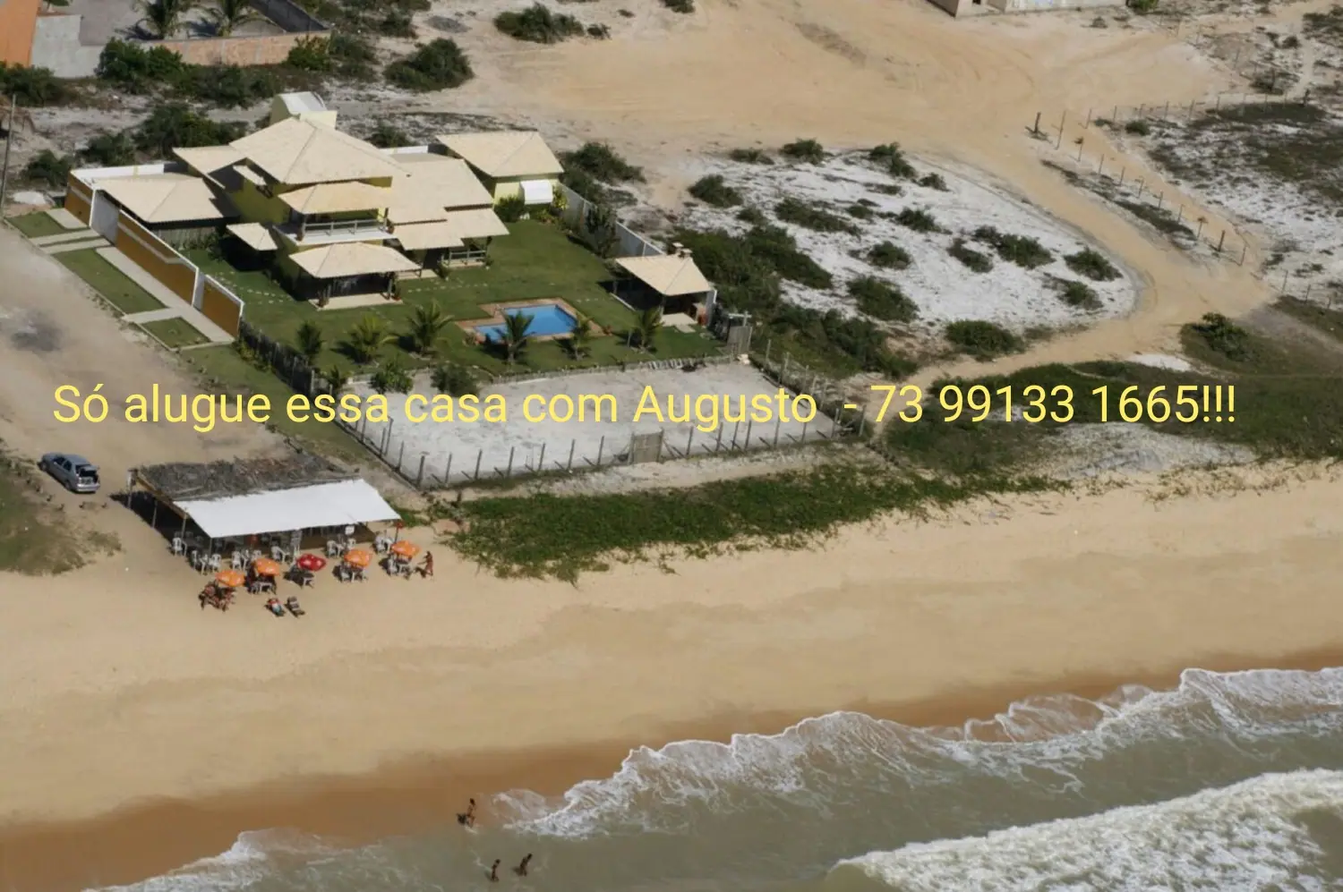
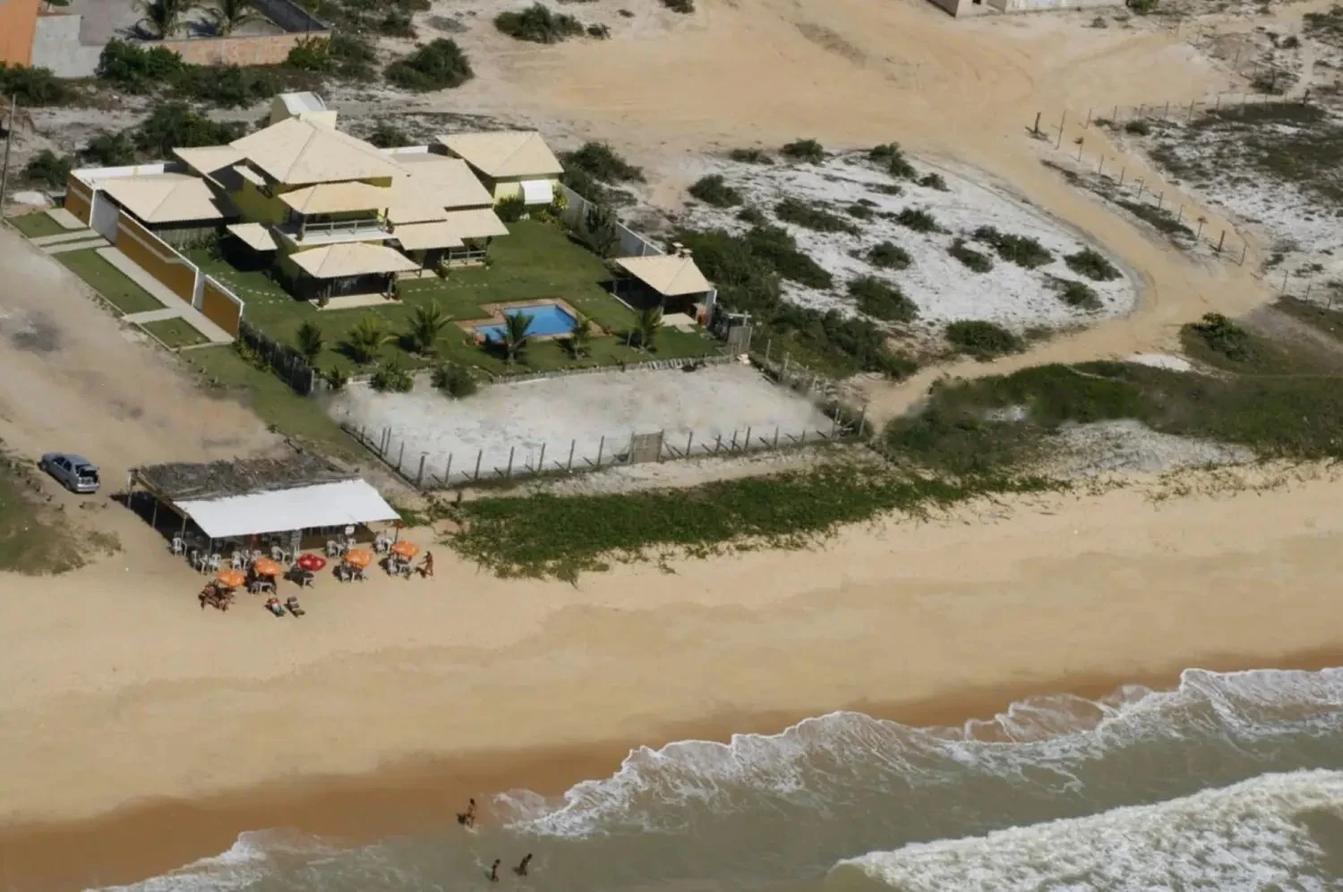
Casa Prado: capa em mosaico (opção escolhida pelo Augusto) e fotos de capa novas
Pé na areia em destaque com a foto aérea da praia, sem a legenda; 7, 5 e 4 quartos com fotos da piscina.

Claude-Session: https://claude.ai/code/session_019DD4Fyus8cYbBLTfuo8jed

Changed region(s): [[0.0307, 0.4042, 0.92, 0.4975]]

diff --git a/casa-prado/index.html b/casa-prado/index.html
@@ -70,7 +70,7 @@ h2.big em{font-family:'Newsreader',serif;font-style:italic;font-weight:300;lette
 #bar nav a:hover,#bar nav a.cur{opacity:1}
 #bar nav a.cur::after{content:"";position:absolute;left:0;right:0;bottom:0;height:2px;background:var(--sea)}
 #bar nav a.btn::after{display:none}
-#bar nav a.btn{padding:11px 22px}
+#bar nav a.btn{padding:11px 22px;opacity:1}
 .btn{display:inline-flex;align-items:center;justify-content:center;gap:9px;border-radius:999px;border:0;cursor:pointer;
   flex:none;white-space:nowrap;font-family:'Bricolage Grotesque',sans-serif;font-size:14.5px;font-weight:500;
   letter-spacing:-.01em;padding:11px 22px;text-decoration:none;
@@ -86,61 +86,52 @@ h2.big em{font-family:'Newsreader',serif;font-style:italic;font-weight:300;lette
 #burger.x i:nth-child(2){opacity:0}
 #burger.x i:nth-child(3){transform:translateY(-6.1px) rotate(-45deg)}
 
-#hero{position:relative;height:100svh;min-height:660px;max-height:1100px;overflow:hidden;background:var(--deeper);color:#f5f1e8;display:flex;flex-direction:column}
-#heroimg{position:absolute;left:0;top:-10%;width:100%;height:120%;z-index:0;
-  background:url("casas/band.webp") center 60%/cover no-repeat;opacity:.26;will-change:transform}
-#scrim{position:absolute;inset:0;z-index:1;
-  background:radial-gradient(120% 80% at 20% 0%,rgba(31,147,166,.22),rgba(7,30,36,0) 60%),
-             linear-gradient(rgba(7,30,36,.55),rgba(7,30,36,.86) 55%,var(--deeper))}
-.hero-in{position:relative;z-index:5;flex:1;display:flex;flex-direction:column;
-  padding:calc(78px + 2.4vh) clamp(14px,3.6vw,56px) clamp(14px,2.6vh,30px);gap:clamp(16px,2.8vh,30px)}
+#hero{position:relative;height:100svh;min-height:720px;max-height:1150px;overflow:hidden;background:var(--paper);color:var(--ink);display:flex;flex-direction:column}
+#heroimg{position:absolute;right:-18%;top:-30%;width:80%;height:110%;z-index:0;pointer-events:none;will-change:transform;
+  background:radial-gradient(closest-side,rgba(31,147,166,.17),rgba(31,147,166,0))}
+#scrim{display:none}
+.hero-in{position:relative;z-index:2;flex:1;display:flex;flex-direction:column;width:100%;max-width:1480px;margin:0 auto;
+  padding:calc(82px + 2.4vh) clamp(14px,3.6vw,56px) clamp(16px,3vh,34px);gap:clamp(16px,2.8vh,30px)}
 .hero-head{display:flex;justify-content:space-between;align-items:flex-end;gap:18px 40px;flex-wrap:wrap;will-change:transform}
-.lock-eyebrow{font-family:'Newsreader',serif;font-weight:500;color:#f0cd82;
-  font-size:clamp(11px,1.2vw,14px);letter-spacing:.3em;text-transform:uppercase;margin-bottom:12px;line-height:1.3}
-#hero h1{font-family:'Newsreader',serif;font-weight:400;font-size:clamp(36px,4.5vw,68px);line-height:1;
-  letter-spacing:-.025em}
-#hero h1 .n{font-family:'Bricolage Grotesque',sans-serif;font-weight:800;letter-spacing:-.055em;color:#f0cd82}
-#hero h1 em{font-style:italic;font-weight:300}
-.hero-say{font-family:'Newsreader',serif;font-style:italic;font-weight:300;font-size:clamp(16px,1.6vw,20px);
-  opacity:.88;margin-top:12px;max-width:40ch;line-height:1.5}
-.hero-side{display:flex;gap:clamp(18px,3vw,40px);padding-bottom:6px}
-.hero-side div{display:flex;flex-direction:column;gap:3px;border-left:2px solid rgba(240,205,130,.55);padding-left:12px}
-.hero-side b{font-family:'Bricolage Grotesque',sans-serif;font-size:clamp(17px,1.8vw,23px);font-weight:700;letter-spacing:-.035em;line-height:1}
-.hero-side span{font-family:'Newsreader',serif;font-style:italic;font-size:14px;opacity:.72}
+.lock-eyebrow{font-family:'Newsreader',serif;font-style:italic;font-size:17px;color:var(--sea-d);margin-bottom:8px}
+#hero h1{font-family:'Bricolage Grotesque',sans-serif;font-weight:800;font-size:clamp(40px,4.7vw,74px);line-height:.95;letter-spacing:-.055em}
+#hero h1 em{display:inline;font-family:'Newsreader',serif;font-style:italic;font-weight:400;letter-spacing:-.025em;color:var(--sea-d)}
+.hero-say{font-family:'Newsreader',serif;font-style:italic;font-weight:300;font-size:clamp(16px,1.5vw,19px);color:var(--ink-2);margin-top:14px;max-width:42ch;line-height:1.5}
+.hero-side{display:flex;align-items:flex-end;gap:clamp(18px,2.6vw,36px);padding-bottom:6px}
+.hero-side .st{display:flex;flex-direction:column;gap:3px;border-left:2px solid var(--sea);padding-left:12px}
+.hero-side b{font-family:'Bricolage Grotesque',sans-serif;font-size:clamp(17px,1.7vw,22px);font-weight:700;letter-spacing:-.035em;line-height:1}
+.hero-side span{font-family:'Newsreader',serif;font-style:italic;font-size:14px;color:var(--ink-2)}
+.hero-side .btn{padding:14px 24px}
+.hero-cta{display:none}
 
-.quad{flex:1;display:flex;gap:clamp(8px,.9vw,14px);min-height:0}
-.qc{position:relative;flex:1 1 0;min-width:0;border:0;padding:0;margin:0;border-radius:18px;overflow:hidden;cursor:pointer;
-  color:#f5f1e8;text-align:left;background:var(--deep);isolation:isolate;
-  box-shadow:0 28px 60px -36px rgba(0,0,0,.9);transition:flex-grow .65s cubic-bezier(.2,.8,.3,1)}
-.qimg{position:absolute;left:0;right:0;top:-9%;bottom:-9%;z-index:0;will-change:transform}
-.qimg img{width:100%;height:100%;object-fit:cover;transform:scale(1.04);transition:transform 1s cubic-bezier(.2,.8,.3,1)}
+.quad{flex:1;display:grid;grid-template-columns:1.2fr 1.2fr 1fr 1fr;grid-template-rows:1fr 1fr;gap:clamp(8px,.8vw,12px);
+  min-height:0}
+.qc{position:relative;min-width:0;min-height:0;border:0;padding:0;margin:0;border-radius:18px;overflow:hidden;cursor:pointer;
+  color:#f5f1e8;text-align:left;background:var(--deep);isolation:isolate;box-shadow:0 24px 50px -34px rgba(7,30,36,.75)}
+.qc.big{grid-column:1/3;grid-row:1/3}
+.qc.wide{grid-column:3/5;grid-row:1}
+.qimg{position:absolute;left:0;right:0;top:-8%;bottom:-8%;z-index:0;will-change:transform}
+.qimg img{width:100%;height:100%;object-fit:cover;transform:scale(1.03);transition:transform 1s cubic-bezier(.2,.8,.3,1)}
 .qc::after{content:"";position:absolute;inset:0;z-index:1;pointer-events:none;
-  background:linear-gradient(rgba(7,30,36,.45) 0%,rgba(7,30,36,0) 24%,rgba(7,30,36,0) 40%,rgba(7,30,36,.62) 64%,rgba(7,30,36,.94) 100%)}
-.qnum{position:absolute;top:14px;left:14px;z-index:3;font-family:'Bricolage Grotesque',sans-serif;font-size:11.5px;font-weight:500;
-  letter-spacing:.16em;text-transform:uppercase;padding:6px 11px;border-radius:999px;
-  background:rgba(7,30,36,.38);-webkit-backdrop-filter:blur(10px);backdrop-filter:blur(10px);border:1px solid rgba(255,255,255,.24)}
+  background:linear-gradient(rgba(7,30,36,.28) 0%,rgba(7,30,36,0) 22%,rgba(7,30,36,0) 48%,rgba(7,30,36,.55) 72%,rgba(7,30,36,.9) 100%)}
+.qbadge{position:absolute;top:14px;left:14px;z-index:3;font-family:'Bricolage Grotesque',sans-serif;font-weight:700;font-size:13px;
+  letter-spacing:-.01em;padding:6px 12px;border-radius:999px;background:var(--paper);color:var(--ink)}
+.big .qbadge{background:#e8b55e;font-size:15px;padding:7px 14px}
 .qarrow{position:absolute;top:12px;right:12px;z-index:3;width:36px;height:36px;border-radius:50%;
   display:flex;align-items:center;justify-content:center;background:rgba(245,241,232,.92);color:var(--deep);
   transition:transform .35s cubic-bezier(.2,.9,.3,1),background .25s}
-.qtxt{position:absolute;left:0;right:0;bottom:0;z-index:3;padding:clamp(14px,1.7vw,26px)}
-.qq{display:flex;align-items:baseline;gap:8px;font-family:'Bricolage Grotesque',sans-serif;font-weight:800;
-  font-size:clamp(58px,6.6vw,104px);line-height:.8;letter-spacing:-.065em;color:#f0cd82}
-.qq small{font-family:'Newsreader',serif;font-style:italic;font-weight:400;font-size:clamp(16px,1.5vw,21px);letter-spacing:0;color:#f5f1e8}
-.qn{display:block;font-family:'Bricolage Grotesque',sans-serif;font-weight:700;font-size:clamp(19px,1.75vw,26px);
-  letter-spacing:-.035em;line-height:1.08;margin-top:12px}
-.qb{display:block;font-family:'Newsreader',serif;font-style:italic;font-weight:300;font-size:15px;opacity:.86;margin-top:3px;line-height:1.35}
-.qchips{display:flex;flex-wrap:wrap;gap:5px;margin-top:12px;max-height:27px;overflow:hidden}
-@media(min-width:761px) and (max-width:1180px){.qchips{display:none}.qb{min-height:2.7em}}
-.qchips i{font-style:normal;font-family:'Bricolage Grotesque',sans-serif;font-size:12px;font-weight:500;
-  padding:4px 10px;border-radius:999px;border:1px solid rgba(245,241,232,.38);background:rgba(7,30,36,.25)}
-.qc:focus-visible{outline:3px solid #f0cd82;outline-offset:3px}
-@media (hover:hover) and (min-width:761px){
-  .quad:hover .qc{flex-grow:.82}
-  .quad .qc:hover{flex-grow:1.55}
-  .qc:hover .qimg img{transform:scale(1.1)}
-  .qc:hover .qarrow{transform:rotate(-45deg);background:#f0cd82}
+.qtxt{position:absolute;left:0;right:0;bottom:0;z-index:3;padding:clamp(14px,1.6vw,24px)}
+.qn{display:block;font-family:'Bricolage Grotesque',sans-serif;font-weight:700;font-size:clamp(18px,1.6vw,24px);letter-spacing:-.03em;line-height:1.05}
+.big .qn{font-size:clamp(30px,3.4vw,52px);letter-spacing:-.045em}
+.qc.big::after{background:linear-gradient(rgba(7,30,36,.25) 0%,rgba(7,30,36,0) 20%,rgba(7,30,36,0) 62%,rgba(7,30,36,.78) 100%)}
+.qb{display:block;font-family:'Newsreader',serif;font-style:italic;font-weight:300;font-size:15px;opacity:.9;margin-top:4px;line-height:1.35}
+.big .qb{font-size:clamp(15px,1.4vw,19px)}
+.qc:not(.big):not(.wide) .qb{display:none}
+.qc:focus-visible{outline:3px solid var(--sea);outline-offset:3px}
+@media (hover:hover){
+  .qc:hover .qimg img{transform:scale(1.09)}
+  .qc:hover .qarrow{transform:rotate(-45deg);background:#e8b55e}
 }
-.quad-hint{font-family:'Newsreader',serif;font-style:italic;font-size:14.5px;opacity:.7;text-align:center;margin-top:-6px}
 
 #datas{background:var(--paper)}
 #datas .wrap{padding-top:clamp(34px,5.5vh,64px);padding-bottom:clamp(34px,5.5vh,64px)}
@@ -163,31 +154,34 @@ h2.big em{font-family:'Newsreader',serif;font-style:italic;font-weight:300;lette
 
 @media(max-width:760px){
   #hero{height:auto;min-height:100svh;max-height:none}
-  .hero-in{padding-top:calc(66px + 1.2vh);gap:12px}
-  #hero h1{font-size:clamp(29px,8.4vw,40px);line-height:1.02}
   #hero h1 em{display:block}
-  .hero-say{display:none}
+  .hero-in{padding-top:calc(68px + 1.4vh);gap:14px}
+  .lock-eyebrow{display:none}
+  #hero h1{font-size:clamp(38px,11.4vw,48px)}
+  .hero-say{font-size:16px;margin-top:8px}
   .hero-side{display:none}
-  .lock-eyebrow{margin-bottom:8px;font-size:10.5px}
-  .quad{display:grid;grid-template-columns:1fr 1fr;grid-template-rows:1fr 1fr;gap:8px;min-height:max(440px,calc(100svh - 205px))}
-  .qc{border-radius:14px}
-  .qnum{top:9px;left:9px;font-size:9.5px;padding:4px 8px;letter-spacing:.12em}
+  .quad{grid-template-columns:repeat(3,1fr);grid-template-rows:1.5fr 1fr;gap:8px;min-height:max(470px,calc(100svh - 300px))}
+  .qc.big{grid-column:1/-1;grid-row:1}
+  .qc.wide{grid-column:auto;grid-row:auto}
+  .qc{border-radius:15px}
+  .qc.wide .qb{display:none}
+  .qbadge{top:9px;left:9px;font-size:11.5px;padding:4px 9px}
+  .big .qbadge{font-size:13px;padding:5px 11px}
   .qarrow{top:8px;right:8px;width:28px;height:28px}
   .qarrow svg{width:13px;height:13px}
-  .qtxt{padding:12px}
-  .qq{font-size:clamp(44px,13vw,58px);gap:5px}
-  .qq small{font-size:14px}
-  .qn{font-size:15.5px;margin-top:8px}
-  .qb{font-size:12.5px}
-  .qchips{display:none}
-  .quad-hint{font-size:13px;margin-top:-2px}
+  .qc:not(.big) .qarrow{display:none}
+  .qtxt{padding:10px 11px}
+  .qn{font-size:15px}
+  .big .qn{font-size:30px}
+  .big .qb{font-size:15px}
+  .hero-cta{display:flex;justify-content:center;width:100%;padding:15px}
   .datas-in{grid-template-columns:1fr;gap:16px}
   .book{padding:16px;gap:12px}
   .fld{flex:1 1 calc(50% - 6px);min-width:0}
   .fld.casa{flex:1 1 100%}
   .book .btn{flex:1 1 100%}
 }
-@media(max-width:360px){.qb{display:none}}
+@media(max-width:360px){.qn{font-size:13.5px}}
 
 .about{display:grid;grid-template-columns:1.05fr .95fr;gap:clamp(28px,5vw,70px);align-items:start}
 .about-pics{display:grid;grid-template-columns:1fr 1fr;gap:12px;align-items:start;margin-top:34px}
@@ -438,7 +432,7 @@ footer nav a{color:rgba(245,241,232,.68);font-family:'Bricolage Grotesque',sans-
 </head>
 <body>
 
-<header id="bar" class="inverse">
+<header id="bar">
   <div class="barin">
     <a class="brand" href="#hero">
       <svg class="mk" viewBox="0 0 48 48" aria-hidden="true"><rect width="48" height="48" rx="10" fill="currentColor" opacity=".14"/><g fill="none" stroke="currentColor" stroke-width="2.4" stroke-linecap="round"><path d="M8 30h32"/><path d="M12 30V19l12-8 12 8v11"/><path d="M8 36c3 0 3-2 6-2s3 2 6 2 3-2 6-2 3 2 6 2 3-2 6-2"/></g></svg>
@@ -463,18 +457,18 @@ footer nav a{color:rgba(245,241,232,.68);font-family:'Bricolage Grotesque',sans-
   <div class="hero-in">
     <div class="hero-head" id="hhead">
       <div>
-        <p class="lock-eyebrow">Prado &middot; Sul da Bahia</p>
-        <h1><span class="n">4 casas</span> de temporada <em>em Prado</em></h1>
-        <p class="hero-say">Todas com piscina, alugadas direto com o Augusto. Escolha a sua.</p>
+        <p class="lock-eyebrow">Prado, sul da Bahia</p>
+        <h1>4 casas <em>em Prado, BA</em></h1>
+        <p class="hero-say">Todas com piscina, direto com o dono. Toque numa casa para ver fotos, planta 3D e datas.</p>
       </div>
       <div class="hero-side">
-        <div><b>7, 6, 5 e 4</b><span>quartos</span></div>
-        <div><b>Piscina</b><span>nas quatro casas</span></div>
-        <div><b>Direto</b><span>com o dono</span></div>
+        <div class="st"><b>7, 6, 5 e 4</b><span>quartos</span></div>
+        <div class="st"><b>Piscina</b><span>nas quatro casas</span></div>
+        <a class="btn btn-wa" href="#datas">Consultar datas</a>
       </div>
     </div>
     <div class="quad" id="quad"></div>
-    <p class="quad-hint">Toque numa casa para ver as fotos, a planta 3D e consultar as datas.</p>
+    <a class="btn btn-wa hero-cta" href="#datas">Consultar datas no WhatsApp</a>
   </div>
 </section>
 
@@ -730,7 +724,7 @@ var ICO={
   car:'<svg width="19" height="19" viewBox="0 0 24 24" fill="none" stroke="currentColor" stroke-width="1.7"><path d="M4 16v-3l2-5h12l2 5v3"/><path d="M4 16h16v3h-3v-3M7 19H4z"/><circle cx="7.5" cy="16.5" r="1.3"/><circle cx="16.5" cy="16.5" r="1.3"/></svg>'
 };
 
-var CASAS=[{"slug": "segura-as-ondas", "nome": "Casa 7 quartos · Novo Prado", "tag": "Novo Prado · até 20 pessoas", "resumo": "A maior das quatro, no Novo Prado: sete quartos, seis banheiros e espaço para vinte pessoas.", "chips": ["7 quartos", "20 pessoas", "500 m da praia", "5 vagas"], "fatos": [["Quartos", "7"], ["Banheiros", "6"], ["Pessoas", "20"], ["Até a praia", "500 m"]], "itens": ["Piscina com área em volta", "Churrasqueira coberta", "Forno e fogão a lenha", "Ar-condicionado split nos 7 quartos", "Wi-Fi", "Geladeira e freezer", "Varanda com redes", "Garagem coberta para 5 carros", "Duchas para o banho de praia", "Quintal gramado"], "desc": "Casa térrea no bairro Novo Prado, que se abre toda para o quintal: de um lado a piscina, do outro a área coberta com churrasqueira, forno e fogão a lenha. São sete quartos (três suítes, duas demi-suítes e dois quartos) e seis banheiros, com espaço para vinte pessoas. Fica a 500 metros da praia Segura as Ondas e a 700 metros do centro.", "galtexto": "Da piscina aos quartos, na casa que recebe até vinte pessoas.", "fotos": [["fotos/01-piscina-casa.webp", "A piscina, com a casa ao fundo"], ["fotos/02-piscina-fachada.webp", "A piscina de frente para os quartos"], ["fotos/03-piscina-espreguicadeira.webp", "Espaço em volta da piscina"], ["fotos/04-churrasqueira-forno.webp", "Churrasqueira, forno a lenha e bancada"], ["fotos/05-varanda-gourmet.webp", "A varanda da área gourmet"], ["fotos/06-mesa-grande.webp", "Mesa grande para todo mundo sentar"], ["fotos/07-churrasqueira-mesa.webp", "A área da churrasqueira"], ["fotos/08-varanda-redes.webp", "Varanda com redes, de frente para o quintal"], ["fotos/09-quintal-piscina.webp", "Quintal e piscina"], ["fotos/10-area-coberta.webp", "Área coberta"], ["fotos/11-quintal.webp", "O gramado entre a casa e a área gourmet"], ["fotos/12-jardim.webp", "O jardim"], ["fotos/13-quintal-vista.webp", "O quintal visto da varanda"], ["fotos/14-garagem.webp", "Garagem coberta para cinco carros"], ["fotos/15-fachada.webp", "A frente da casa"], ["fotos/16-cozinha.webp", "A cozinha"], ["fotos/17-cozinha-pia.webp", "Cozinha equipada"], ["fotos/18-area-servico.webp", "Área de serviço"], ["fotos/19-quarto-suite.webp", "Uma das suítes"], ["fotos/20-quarto-casal.webp", "Quarto de casal com ar-condicionado"], ["fotos/21-quarto-solteiro.webp", "Quarto de solteiro"], ["fotos/22-quarto-duas-camas.webp", "Quarto com duas camas"], ["fotos/23-quarto.webp", "Quarto com ar-condicionado split"], ["fotos/24-banheiro.webp", "Um dos seis banheiros"], ["fotos/25-banheiro-2.webp", "Banheiro com box"], ["fotos/26-banheiro-3.webp", "Banheiro"]], "q": "7", "curto": "Novo Prado", "bairro": "Até 20 pessoas · 500 m da praia", "capa": "casas/capas/7-quartos.webp"}, {"slug": "beira-mar", "nome": "Casa 6 quartos · Pé na areia", "tag": "Basevi · praia da Lagoa Pequena", "resumo": "Pé na areia na praia da Lagoa Pequena, no bairro Basevi, a 1,5 km do centro.", "chips": ["6 quartos", "3 suítes", "Pé na areia", "Piscina"], "fatos": [["Quartos", "6"], ["Suítes", "3"], ["Banheiros", "4 + lavabo"], ["Praia", "no fundo"]], "itens": ["Piscina", "Suítes de frente para a piscina", "2 quartos separados da casa, com banheiro", "Ar-condicionado split em todos os quartos", "Área gourmet com lavabo", "Cozinha equipada", "Varanda", "Pé na areia", "1,5 km do centro"], "desc": "Casa pé na areia na praia da Lagoa Pequena, no bairro Basevi, a 1.500 metros do centro do Prado. São seis quartos, todos com ar-condicionado split. As três suítes ficam de frente para a piscina, abrindo para a varanda, e dois quartos ficam numa construção separada da casa, com um banheiro na frente. São quatro banheiros no total, mais um lavabo na sala.", "galtexto": "A praia da Lagoa Pequena no fundo do quintal, a piscina na frente das suítes e a varanda com redes.", "fotos": [["casas/beira-mar/01-aerea-praia.webp", "A casa e a praia vistas de cima"], ["casas/beira-mar/02-piscina-mar.webp", "Piscina com o mar ao fundo"], ["casas/beira-mar/03-piscina-casa.webp", "Piscina com a casa ao fundo"], ["casas/beira-mar/04-piscina-casa-2.webp", "A casa vista da piscina"], ["casas/beira-mar/05-piscina-espreguicadeiras.webp", "Espreguiçadeiras na beira da piscina"], ["casas/beira-mar/06-piscina-coqueiros.webp", "Piscina entre os coqueiros"], ["casas/beira-mar/07-piscina-gramado.webp", "Piscina e gramado"], ["casas/beira-mar/08-piscina-borda.webp", "Borda da piscina"], ["casas/beira-mar/09-casa-piscina.webp", "A casa e a piscina"], ["casas/beira-mar/10-fachada.webp", "A frente da casa"], ["casas/beira-mar/11-fachada-2.webp", "A casa vista de fora"], ["casas/beira-mar/12-fachada-lateral.webp", "A casa pela lateral"], ["casas/beira-mar/13-varanda-mar.webp", "Varanda de frente para o mar"], ["casas/beira-mar/14-varanda-vista.webp", "Vista da varanda"], ["casas/beira-mar/15-pergolado.webp", "Pergolado no quintal"], ["casas/beira-mar/16-mesa-varanda.webp", "Mesa e cadeiras na varanda"], ["casas/beira-mar/17-casa-pergolado.webp", "A casa e o pergolado"], ["casas/beira-mar/18-casa-frente.webp", "A frente da casa, da rua"], ["casas/beira-mar/19-rede-varanda.webp", "Rede na varanda"], ["casas/beira-mar/20-lateral.webp", "Lateral da casa"], ["casas/beira-mar/21-entrada.webp", "Entrada da casa"], ["casas/beira-mar/22-varanda-piscina.webp", "Varanda de frente para a piscina"], ["casas/beira-mar/23-terreno-praia.webp", "O terreno aberto para a praia"], ["casas/beira-mar/24-praia.webp", "A praia em frente à casa"], ["casas/beira-mar/25-cozinha-sala.webp", "Cozinha e sala integradas"], ["casas/beira-mar/26-cozinha.webp", "Cozinha"], ["casas/beira-mar/27-sala-tv.webp", "Sala de TV"], ["casas/beira-mar/28-sala-mesa.webp", "Sala com mesa de jantar"]], "q": "6", "curto": "Pé na areia", "bairro": "Basevi · praia da Lagoa Pequena", "capa": "casas/capas/pe-na-areia.webp"}, {"slug": "beco-garrafas", "nome": "Casa 5 quartos · Centro do Prado", "tag": "Centro · 50 m da praia", "resumo": "No centro do Prado, a cinquenta metros da praia e do Beco das Garrafas.", "chips": ["5 quartos", "4 suítes", "50 m da praia", "Piscina"], "fatos": [["Quartos", "5"], ["Suítes", "4"], ["Banheiros", "5 + lavabo"], ["Até a praia", "50 m"]], "itens": ["Piscina", "Ar-condicionado split em todos os quartos", "Área gourmet com lavabo", "Cozinha equipada", "Varanda", "50 m da praia", "50 m do Beco das Garrafas"], "desc": "Casa no centro do Prado, a cinquenta metros da praia e do Beco das Garrafas, com a praia no fundo da casa. São cinco quartos, todos com ar-condicionado split, sendo quatro suítes, cinco banheiros no total e mais um lavabo na área gourmet. Dá para fazer tudo a pé: praia, praça, bares e os melhores restaurantes do Prado.", "galtexto": "Piscina, área gourmet e um corredor de pedra entre a casa e o quintal, a cinquenta metros do mar.", "fotos": [["casas/beco-garrafas/01-fachada-piscina.webp", "A fachada vista da piscina"], ["casas/beco-garrafas/02-piscina-gramado.webp", "Piscina e gramado"], ["casas/beco-garrafas/03-piscina-area.webp", "Área em volta da piscina"], ["casas/beco-garrafas/04-piscina-lateral.webp", "Piscina pela lateral da casa"], ["casas/beco-garrafas/05-piscina-deck.webp", "Piscina e deck de pedra"], ["casas/beco-garrafas/06-piscina-varanda.webp", "Piscina vista da varanda"], ["casas/beco-garrafas/07-piscina-quintal.webp", "Piscina no quintal"], ["casas/beco-garrafas/08-fachada-jardim.webp", "A fachada e o jardim"], ["casas/beco-garrafas/09-fachada.webp", "A frente da casa"], ["casas/beco-garrafas/10-casa-quintal.webp", "A casa vista do quintal"], ["casas/beco-garrafas/11-entrada.webp", "Entrada da casa"], ["casas/beco-garrafas/12-rua.webp", "A casa vista da rua"], ["casas/beco-garrafas/13-lateral.webp", "Lateral da casa"], ["casas/beco-garrafas/14-corredor-lateral.webp", "Corredor lateral coberto"], ["casas/beco-garrafas/15-area-coberta.webp", "Área coberta ao lado da casa"], ["casas/beco-garrafas/16-pergolado.webp", "Pergolado no quintal"], ["casas/beco-garrafas/17-area-gourmet-mesa.webp", "Área gourmet com mesa de madeira"], ["casas/beco-garrafas/18-area-gourmet.webp", "Área gourmet"], ["casas/beco-garrafas/19-mesa-grande.webp", "Mesa grande de madeira na área gourmet"], ["casas/beco-garrafas/20-churrasqueira.webp", "Churrasqueira da área gourmet"], ["casas/beco-garrafas/21-sala-jantar.webp", "Sala de jantar"], ["casas/beco-garrafas/22-sala-jantar-2.webp", "Mesa de jantar"], ["casas/beco-garrafas/23-sala-tv.webp", "Sala de TV"], ["casas/beco-garrafas/24-sala-estar.webp", "Sala de estar"], ["casas/beco-garrafas/25-cozinha.webp", "Cozinha"], ["casas/beco-garrafas/26-varanda-mesa.webp", "Mesa na varanda"], ["casas/beco-garrafas/27-varanda.webp", "Varanda da casa"], ["casas/beco-garrafas/28-varanda-piso.webp", "Varanda e piso de pedra"], ["casas/beco-garrafas/29-quarto-1.webp", "Quarto com ar-condicionado split"], ["casas/beco-garrafas/30-quarto-2.webp", "Quarto com ar-condicionado split"], ["casas/beco-garrafas/31-quarto-3.webp", "Quarto com ar-condicionado split"], ["casas/beco-garrafas/32-quarto-4.webp", "Quarto com ar-condicionado split"], ["casas/beco-garrafas/33-quarto-5.webp", "Quarto com ar-condicionado split"], ["casas/beco-garrafas/34-banheiro-1.webp", "Banheiro da casa"], ["casas/beco-garrafas/35-banheiro-2.webp", "Banheiro da casa"], ["casas/beco-garrafas/36-banheiro-3.webp", "Banheiro da casa"]], "q": "5", "curto": "Centro do Prado", "bairro": "50 m da praia e do Beco das Garrafas", "capa": "casas/capas/5-quartos.webp"}, {"slug": "novo-prado", "nome": "Casa 4 quartos · Novo Prado", "tag": "Novo Prado · 400 m da praia", "resumo": "No bairro Novo Prado, a quatro minutos a pé da praia Segura as Ondas.", "chips": ["4 quartos", "3 suítes", "400 m da praia", "Piscina"], "fatos": [["Quartos", "4"], ["Suítes", "3"], ["Banheiros", "4 + lavabo"], ["Até a praia", "400 m"]], "itens": ["Piscina", "Ar-condicionado split em todos os quartos", "Área gourmet com lavabo", "Cozinha equipada", "Varanda com redes", "400 m da praia", "600 m do centro"], "desc": "Casa no bairro Novo Prado, a 400 metros da praia Segura as Ondas e a 600 metros do centro. São quatro quartos, todos com ar-condicionado split, sendo três suítes, quatro banheiros no total e mais um lavabo na área gourmet.", "galtexto": "Piscina com cascata, área gourmet de mesa grande e quatro quartos em bairro tranquilo.", "fotos": [["casas/novo-prado/01-piscina-cascata.webp", "Piscina com cascata no quintal"], ["casas/novo-prado/02-piscina-espreguicadeira.webp", "Piscina e espreguiçadeira"], ["casas/novo-prado/03-piscina-area.webp", "Área em volta da piscina"], ["casas/novo-prado/04-piscina-coqueiros.webp", "Piscina entre os coqueiros"], ["casas/novo-prado/05-piscina-varanda.webp", "Piscina vista da varanda"], ["casas/novo-prado/06-piscina-palmeira.webp", "Piscina e palmeira no quintal"], ["casas/novo-prado/07-espreguicadeira.webp", "Espreguiçadeira ao lado da piscina"], ["casas/novo-prado/08-quintal-piscina.webp", "Quintal e piscina"], ["casas/novo-prado/09-jardim.webp", "Jardim com árvore no quintal"], ["casas/novo-prado/10-varanda-redes.webp", "Varanda com redes"], ["casas/novo-prado/11-mesa-grande.webp", "Mesa grande de madeira na área gourmet"], ["casas/novo-prado/12-area-gourmet.webp", "Área gourmet"], ["casas/novo-prado/13-area-gourmet-2.webp", "A área gourmet por outro ângulo"], ["casas/novo-prado/14-sala-tv.webp", "Sala de TV"], ["casas/novo-prado/15-sala-estar.webp", "Sala de estar"], ["casas/novo-prado/16-cozinha.webp", "Cozinha"], ["casas/novo-prado/17-quarto-1.webp", "Quarto com ar-condicionado split"], ["casas/novo-prado/18-quarto-2.webp", "Quarto com ar-condicionado split"], ["casas/novo-prado/19-quarto-3.webp", "Quarto com ar-condicionado split"], ["casas/novo-prado/20-quarto-4.webp", "Quarto com ar-condicionado split"], ["casas/novo-prado/21-quarto-5.webp", "Quarto com ar-condicionado split"], ["casas/novo-prado/22-quarto-6.webp", "Quarto com ar-condicionado split"], ["casas/novo-prado/23-quarto-7.webp", "Quarto com ar-condicionado split"], ["casas/novo-prado/24-quarto-8.webp", "Quarto com ar-condicionado split"], ["casas/novo-prado/25-corredor.webp", "Corredor interno"], ["casas/novo-prado/26-banheiro-1.webp", "Banheiro da casa"], ["casas/novo-prado/27-banheiro-2.webp", "Banheiro da casa"], ["casas/novo-prado/28-banheiro-3.webp", "Banheiro da casa"], ["casas/novo-prado/29-banheiro-4.webp", "Banheiro da casa"]], "q": "4", "curto": "Novo Prado", "bairro": "400 m da praia · 600 m do centro", "capa": "casas/capas/4-quartos.webp"}];
+var CASAS=[{"slug": "segura-as-ondas", "nome": "Casa 7 quartos · Novo Prado", "tag": "Novo Prado · até 20 pessoas", "resumo": "A maior das quatro, no Novo Prado: sete quartos, seis banheiros e espaço para vinte pessoas.", "chips": ["7 quartos", "20 pessoas", "500 m da praia", "5 vagas"], "fatos": [["Quartos", "7"], ["Banheiros", "6"], ["Pessoas", "20"], ["Até a praia", "500 m"]], "itens": ["Piscina com área em volta", "Churrasqueira coberta", "Forno e fogão a lenha", "Ar-condicionado split nos 7 quartos", "Wi-Fi", "Geladeira e freezer", "Varanda com redes", "Garagem coberta para 5 carros", "Duchas para o banho de praia", "Quintal gramado"], "desc": "Casa térrea no bairro Novo Prado, que se abre toda para o quintal: de um lado a piscina, do outro a área coberta com churrasqueira, forno e fogão a lenha. São sete quartos (três suítes, duas demi-suítes e dois quartos) e seis banheiros, com espaço para vinte pessoas. Fica a 500 metros da praia Segura as Ondas e a 700 metros do centro.", "galtexto": "Da piscina aos quartos, na casa que recebe até vinte pessoas.", "fotos": [["fotos/01-piscina-casa.webp", "A piscina, com a casa ao fundo"], ["fotos/02-piscina-fachada.webp", "A piscina de frente para os quartos"], ["fotos/03-piscina-espreguicadeira.webp", "Espaço em volta da piscina"], ["fotos/04-churrasqueira-forno.webp", "Churrasqueira, forno a lenha e bancada"], ["fotos/05-varanda-gourmet.webp", "A varanda da área gourmet"], ["fotos/06-mesa-grande.webp", "Mesa grande para todo mundo sentar"], ["fotos/07-churrasqueira-mesa.webp", "A área da churrasqueira"], ["fotos/08-varanda-redes.webp", "Varanda com redes, de frente para o quintal"], ["fotos/09-quintal-piscina.webp", "Quintal e piscina"], ["fotos/10-area-coberta.webp", "Área coberta"], ["fotos/11-quintal.webp", "O gramado entre a casa e a área gourmet"], ["fotos/12-jardim.webp", "O jardim"], ["fotos/13-quintal-vista.webp", "O quintal visto da varanda"], ["fotos/14-garagem.webp", "Garagem coberta para cinco carros"], ["fotos/15-fachada.webp", "A frente da casa"], ["fotos/16-cozinha.webp", "A cozinha"], ["fotos/17-cozinha-pia.webp", "Cozinha equipada"], ["fotos/18-area-servico.webp", "Área de serviço"], ["fotos/19-quarto-suite.webp", "Uma das suítes"], ["fotos/20-quarto-casal.webp", "Quarto de casal com ar-condicionado"], ["fotos/21-quarto-solteiro.webp", "Quarto de solteiro"], ["fotos/22-quarto-duas-camas.webp", "Quarto com duas camas"], ["fotos/23-quarto.webp", "Quarto com ar-condicionado split"], ["fotos/24-banheiro.webp", "Um dos seis banheiros"], ["fotos/25-banheiro-2.webp", "Banheiro com box"], ["fotos/26-banheiro-3.webp", "Banheiro"]], "q": "7", "curto": "Novo Prado", "bairro": "Até 20 pessoas · 500 m da praia", "capa": "casas/capas/7-quartos.webp", "mos": "casas/capas/m7.webp", "mpos": "30% 60%"}, {"slug": "beira-mar", "nome": "Casa 6 quartos · Pé na areia", "tag": "Basevi · praia da Lagoa Pequena", "resumo": "Pé na areia na praia da Lagoa Pequena, no bairro Basevi, a 1,5 km do centro.", "chips": ["6 quartos", "3 suítes", "Pé na areia", "Piscina"], "fatos": [["Quartos", "6"], ["Suítes", "3"], ["Banheiros", "4 + lavabo"], ["Praia", "no fundo"]], "itens": ["Piscina", "Suítes de frente para a piscina", "2 quartos separados da casa, com banheiro", "Ar-condicionado split em todos os quartos", "Área gourmet com lavabo", "Cozinha equipada", "Varanda", "Pé na areia", "1,5 km do centro"], "desc": "Casa pé na areia na praia da Lagoa Pequena, no bairro Basevi, a 1.500 metros do centro do Prado. São seis quartos, todos com ar-condicionado split. As três suítes ficam de frente para a piscina, abrindo para a varanda, e dois quartos ficam numa construção separada da casa, com um banheiro na frente. São quatro banheiros no total, mais um lavabo na sala.", "galtexto": "A praia da Lagoa Pequena no fundo do quintal, a piscina na frente das suítes e a varanda com redes.", "fotos": [["casas/beira-mar/01-aerea-praia.webp", "A casa e a praia vistas de cima"], ["casas/beira-mar/02-piscina-mar.webp", "Piscina com o mar ao fundo"], ["casas/beira-mar/03-piscina-casa.webp", "Piscina com a casa ao fundo"], ["casas/beira-mar/04-piscina-casa-2.webp", "A casa vista da piscina"], ["casas/beira-mar/05-piscina-espreguicadeiras.webp", "Espreguiçadeiras na beira da piscina"], ["casas/beira-mar/06-piscina-coqueiros.webp", "Piscina entre os coqueiros"], ["casas/beira-mar/07-piscina-gramado.webp", "Piscina e gramado"], ["casas/beira-mar/08-piscina-borda.webp", "Borda da piscina"], ["casas/beira-mar/09-casa-piscina.webp", "A casa e a piscina"], ["casas/beira-mar/10-fachada.webp", "A frente da casa"], ["casas/beira-mar/11-fachada-2.webp", "A casa vista de fora"], ["casas/beira-mar/12-fachada-lateral.webp", "A casa pela lateral"], ["casas/beira-mar/13-varanda-mar.webp", "Varanda de frente para o mar"], ["casas/beira-mar/14-varanda-vista.webp", "Vista da varanda"], ["casas/beira-mar/15-pergolado.webp", "Pergolado no quintal"], ["casas/beira-mar/16-mesa-varanda.webp", "Mesa e cadeiras na varanda"], ["casas/beira-mar/17-casa-pergolado.webp", "A casa e o pergolado"], ["casas/beira-mar/18-casa-frente.webp", "A frente da casa, da rua"], ["casas/beira-mar/19-rede-varanda.webp", "Rede na varanda"], ["casas/beira-mar/20-lateral.webp", "Lateral da casa"], ["casas/beira-mar/21-entrada.webp", "Entrada da casa"], ["casas/beira-mar/22-varanda-piscina.webp", "Varanda de frente para a piscina"], ["casas/beira-mar/23-terreno-praia.webp", "O terreno aberto para a praia"], ["casas/beira-mar/24-praia.webp", "A praia em frente à casa"], ["casas/beira-mar/25-cozinha-sala.webp", "Cozinha e sala integradas"], ["casas/beira-mar/26-cozinha.webp", "Cozinha"], ["casas/beira-mar/27-sala-tv.webp", "Sala de TV"], ["casas/beira-mar/28-sala-mesa.webp", "Sala com mesa de jantar"]], "q": "6", "curto": "Pé na areia", "bairro": "Basevi · praia da Lagoa Pequena", "capa": "casas/capas/pe-na-areia.webp", "mos": "casas/capas/m6.webp", "mpos": "32% 50%"}, {"slug": "beco-garrafas", "nome": "Casa 5 quartos · Centro do Prado", "tag": "Centro · 50 m da praia", "resumo": "No centro do Prado, a cinquenta metros da praia e do Beco das Garrafas.", "chips": ["5 quartos", "4 suítes", "50 m da praia", "Piscina"], "fatos": [["Quartos", "5"], ["Suítes", "4"], ["Banheiros", "5 + lavabo"], ["Até a praia", "50 m"]], "itens": ["Piscina", "Ar-condicionado split em todos os quartos", "Área gourmet com lavabo", "Cozinha equipada", "Varanda", "50 m da praia", "50 m do Beco das Garrafas"], "desc": "Casa no centro do Prado, a cinquenta metros da praia e do Beco das Garrafas, com a praia no fundo da casa. São cinco quartos, todos com ar-condicionado split, sendo quatro suítes, cinco banheiros no total e mais um lavabo na área gourmet. Dá para fazer tudo a pé: praia, praça, bares e os melhores restaurantes do Prado.", "galtexto": "Piscina, área gourmet e um corredor de pedra entre a casa e o quintal, a cinquenta metros do mar.", "fotos": [["casas/beco-garrafas/01-fachada-piscina.webp", "A fachada vista da piscina"], ["casas/beco-garrafas/02-piscina-gramado.webp", "Piscina e gramado"], ["casas/beco-garrafas/03-piscina-area.webp", "Área em volta da piscina"], ["casas/beco-garrafas/04-piscina-lateral.webp", "Piscina pela lateral da casa"], ["casas/beco-garrafas/05-piscina-deck.webp", "Piscina e deck de pedra"], ["casas/beco-garrafas/06-piscina-varanda.webp", "Piscina vista da varanda"], ["casas/beco-garrafas/07-piscina-quintal.webp", "Piscina no quintal"], ["casas/beco-garrafas/08-fachada-jardim.webp", "A fachada e o jardim"], ["casas/beco-garrafas/09-fachada.webp", "A frente da casa"], ["casas/beco-garrafas/10-casa-quintal.webp", "A casa vista do quintal"], ["casas/beco-garrafas/11-entrada.webp", "Entrada da casa"], ["casas/beco-garrafas/12-rua.webp", "A casa vista da rua"], ["casas/beco-garrafas/13-lateral.webp", "Lateral da casa"], ["casas/beco-garrafas/14-corredor-lateral.webp", "Corredor lateral coberto"], ["casas/beco-garrafas/15-area-coberta.webp", "Área coberta ao lado da casa"], ["casas/beco-garrafas/16-pergolado.webp", "Pergolado no quintal"], ["casas/beco-garrafas/17-area-gourmet-mesa.webp", "Área gourmet com mesa de madeira"], ["casas/beco-garrafas/18-area-gourmet.webp", "Área gourmet"], ["casas/beco-garrafas/19-mesa-grande.webp", "Mesa grande de madeira na área gourmet"], ["casas/beco-garrafas/20-churrasqueira.webp", "Churrasqueira da área gourmet"], ["casas/beco-garrafas/21-sala-jantar.webp", "Sala de jantar"], ["casas/beco-garrafas/22-sala-jantar-2.webp", "Mesa de jantar"], ["casas/beco-garrafas/23-sala-tv.webp", "Sala de TV"], ["casas/beco-garrafas/24-sala-estar.webp", "Sala de estar"], ["casas/beco-garrafas/25-cozinha.webp", "Cozinha"], ["casas/beco-garrafas/26-varanda-mesa.webp", "Mesa na varanda"], ["casas/beco-garrafas/27-varanda.webp", "Varanda da casa"], ["casas/beco-garrafas/28-varanda-piso.webp", "Varanda e piso de pedra"], ["casas/beco-garrafas/29-quarto-1.webp", "Quarto com ar-condicionado split"], ["casas/beco-garrafas/30-quarto-2.webp", "Quarto com ar-condicionado split"], ["casas/beco-garrafas/31-quarto-3.webp", "Quarto com ar-condicionado split"], ["casas/beco-garrafas/32-quarto-4.webp", "Quarto com ar-condicionado split"], ["casas/beco-garrafas/33-quarto-5.webp", "Quarto com ar-condicionado split"], ["casas/beco-garrafas/34-banheiro-1.webp", "Banheiro da casa"], ["casas/beco-garrafas/35-banheiro-2.webp", "Banheiro da casa"], ["casas/beco-garrafas/36-banheiro-3.webp", "Banheiro da casa"]], "q": "5", "curto": "Centro do Prado", "bairro": "50 m da praia e do Beco das Garrafas", "capa": "casas/capas/5-quartos.webp", "mos": "casas/capas/m5.webp", "mpos": "40% 60%"}, {"slug": "novo-prado", "nome": "Casa 4 quartos · Novo Prado", "tag": "Novo Prado · 400 m da praia", "resumo": "No bairro Novo Prado, a quatro minutos a pé da praia Segura as Ondas.", "chips": ["4 quartos", "3 suítes", "400 m da praia", "Piscina"], "fatos": [["Quartos", "4"], ["Suítes", "3"], ["Banheiros", "4 + lavabo"], ["Até a praia", "400 m"]], "itens": ["Piscina", "Ar-condicionado split em todos os quartos", "Área gourmet com lavabo", "Cozinha equipada", "Varanda com redes", "400 m da praia", "600 m do centro"], "desc": "Casa no bairro Novo Prado, a 400 metros da praia Segura as Ondas e a 600 metros do centro. São quatro quartos, todos com ar-condicionado split, sendo três suítes, quatro banheiros no total e mais um lavabo na área gourmet.", "galtexto": "Piscina com cascata, área gourmet de mesa grande e quatro quartos em bairro tranquilo.", "fotos": [["casas/novo-prado/01-piscina-cascata.webp", "Piscina com cascata no quintal"], ["casas/novo-prado/02-piscina-espreguicadeira.webp", "Piscina e espreguiçadeira"], ["casas/novo-prado/03-piscina-area.webp", "Área em volta da piscina"], ["casas/novo-prado/04-piscina-coqueiros.webp", "Piscina entre os coqueiros"], ["casas/novo-prado/05-piscina-varanda.webp", "Piscina vista da varanda"], ["casas/novo-prado/06-piscina-palmeira.webp", "Piscina e palmeira no quintal"], ["casas/novo-prado/07-espreguicadeira.webp", "Espreguiçadeira ao lado da piscina"], ["casas/novo-prado/08-quintal-piscina.webp", "Quintal e piscina"], ["casas/novo-prado/09-jardim.webp", "Jardim com árvore no quintal"], ["casas/novo-prado/10-varanda-redes.webp", "Varanda com redes"], ["casas/novo-prado/11-mesa-grande.webp", "Mesa grande de madeira na área gourmet"], ["casas/novo-prado/12-area-gourmet.webp", "Área gourmet"], ["casas/novo-prado/13-area-gourmet-2.webp", "A área gourmet por outro ângulo"], ["casas/novo-prado/14-sala-tv.webp", "Sala de TV"], ["casas/novo-prado/15-sala-estar.webp", "Sala de estar"], ["casas/novo-prado/16-cozinha.webp", "Cozinha"], ["casas/novo-prado/17-quarto-1.webp", "Quarto com ar-condicionado split"], ["casas/novo-prado/18-quarto-2.webp", "Quarto com ar-condicionado split"], ["casas/novo-prado/19-quarto-3.webp", "Quarto com ar-condicionado split"], ["casas/novo-prado/20-quarto-4.webp", "Quarto com ar-condicionado split"], ["casas/novo-prado/21-quarto-5.webp", "Quarto com ar-condicionado split"], ["casas/novo-prado/22-quarto-6.webp", "Quarto com ar-condicionado split"], ["casas/novo-prado/23-quarto-7.webp", "Quarto com ar-condicionado split"], ["casas/novo-prado/24-quarto-8.webp", "Quarto com ar-condicionado split"], ["casas/novo-prado/25-corredor.webp", "Corredor interno"], ["casas/novo-prado/26-banheiro-1.webp", "Banheiro da casa"], ["casas/novo-prado/27-banheiro-2.webp", "Banheiro da casa"], ["casas/novo-prado/28-banheiro-3.webp", "Banheiro da casa"], ["casas/novo-prado/29-banheiro-4.webp", "Banheiro da casa"]], "q": "4", "curto": "Novo Prado", "bairro": "400 m da praia · 600 m do centro", "capa": "casas/capas/4-quartos.webp", "mos": "casas/capas/m4.webp", "mpos": "62% 60%"}];
 
 var AMEN=[
  {i:'pool',t:'Piscina em todas'},
@@ -851,16 +845,15 @@ function renderFaq(){
 }
 var quad=document.getElementById('quad');
 function renderQuad(){
-  quad.innerHTML=CASAS.map(function(c,i){
-    return '<button class="qc" type="button" data-i="'+i+'" aria-label="'+esc(c.nome)+'">'+
-      '<span class="qimg"><img src="'+esc(c.capa)+'" alt="" '+(i<2?'':'loading="lazy" ')+'decoding="async"></span>'+
-      '<span class="qnum">Casa '+(i+1)+' de '+CASAS.length+'</span>'+
+  var ord=[1,0,2,3];
+  quad.innerHTML=ord.map(function(i,k){
+    var c=CASAS[i],cls=k===0?' big':(k===1?' wide':'');
+    return '<button class="qc'+cls+'" type="button" data-i="'+i+'" aria-label="'+esc(c.nome)+'">'+
+      '<span class="qimg"><img src="'+esc(c.mos)+'" alt="" style="object-position:'+c.mpos+'" decoding="async"></span>'+
+      '<span class="qbadge">'+esc(c.q)+' quartos</span>'+
       '<span class="qarrow">'+ICO.arrow+'</span>'+
-      '<span class="qtxt"><span class="qq">'+esc(c.q)+'<small>quartos</small></span>'+
-      '<span class="qn">'+esc(c.curto)+'</span>'+
-      '<span class="qb">'+esc(c.bairro)+'</span>'+
-      '<span class="qchips">'+c.chips.slice(1).map(function(t){return '<i>'+esc(t)+'</i>';}).join('')+'</span>'+
-      '</span></button>';
+      '<span class="qtxt"><span class="qn">'+esc(c.curto)+'</span>'+
+      '<span class="qb">'+esc(c.bairro)+'</span></span></button>';
   }).join('');
   var sel=document.getElementById('bkc');
   CASAS.forEach(function(c){var o=document.createElement('option');o.value=c.nome;o.textContent=c.nome;sel.appendChild(o);});
@@ -1013,15 +1006,14 @@ var links=[].slice.call(nav.querySelectorAll('a[href^="#"]'));
 var secs=links.map(function(a){return document.querySelector(a.getAttribute('href'));});
 function onScroll(){
   var y=window.pageYOffset||document.documentElement.scrollTop,hh=hero.offsetHeight;
-  bar.classList.toggle('inverse',y<hh-64);
-  bar.classList.toggle('solid',y>=hh-64);
+  bar.classList.toggle('solid',y>12);
   var h=document.documentElement.scrollHeight-window.innerHeight;
   prog.style.width=(h>0?(y/h*100):0)+'%';
   flo.classList.toggle('in',y>hh*0.9);
   if(y<hh*1.2){
-    heroimg.style.transform='translate3d(0,'+(y*0.32)+'px,0)';
-    hhead.style.transform='translate3d(0,'+(y*0.16)+'px,0)';hhead.style.opacity=Math.max(0,1-y/(hh*0.55));
-    for(var q=0;q<qimgs.length;q++)qimgs[q].style.transform='translate3d(0,'+(y*0.09)+'px,0)';
+    heroimg.style.transform='translate3d(0,'+(y*0.35)+'px,0)';
+    hhead.style.transform='translate3d(0,'+(y*0.14)+'px,0)';
+    for(var q=0;q<qimgs.length;q++)qimgs[q].style.transform='translate3d(0,'+(y*(q===0?0.1:0.06))+'px,0)';
   }
   if(band){
     var r=band.getBoundingClientRect();
